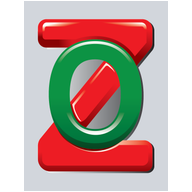
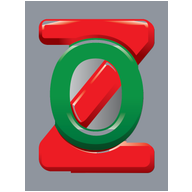
Fill the whole PWA oval with a darker grey, including leftover white.

diff --git a/src/app/layout.tsx b/src/app/layout.tsx
@@ -8,7 +8,7 @@ export const metadata: Metadata = {
   description: 'OzIntel - Emergency Alert System',
   applicationName: 'OzIntel',
   // Cache-bust so Android Chrome / Samsung Internet pick up new home-screen icons
-  manifest: '/manifest.webmanifest?v=6',
+  manifest: '/manifest.webmanifest?v=7',
   appleWebApp: {
     capable: true,
     title: 'OzIntel',
@@ -16,11 +16,11 @@ export const metadata: Metadata = {
   },
   icons: {
     icon: [
-      { url: '/icons/icon-192.png?v=6', sizes: '192x192', type: 'image/png' },
-      { url: '/icons/icon-512.png?v=6', sizes: '512x512', type: 'image/png' },
+      { url: '/icons/icon-192.png?v=7', sizes: '192x192', type: 'image/png' },
+      { url: '/icons/icon-512.png?v=7', sizes: '512x512', type: 'image/png' },
     ],
-    apple: [{ url: '/icons/apple-touch-icon.png?v=6', sizes: '180x180', type: 'image/png' }],
-    shortcut: ['/icons/icon-192.png?v=6'],
+    apple: [{ url: '/icons/apple-touch-icon.png?v=7', sizes: '180x180', type: 'image/png' }],
+    shortcut: ['/icons/icon-192.png?v=7'],
   },
 };
 
